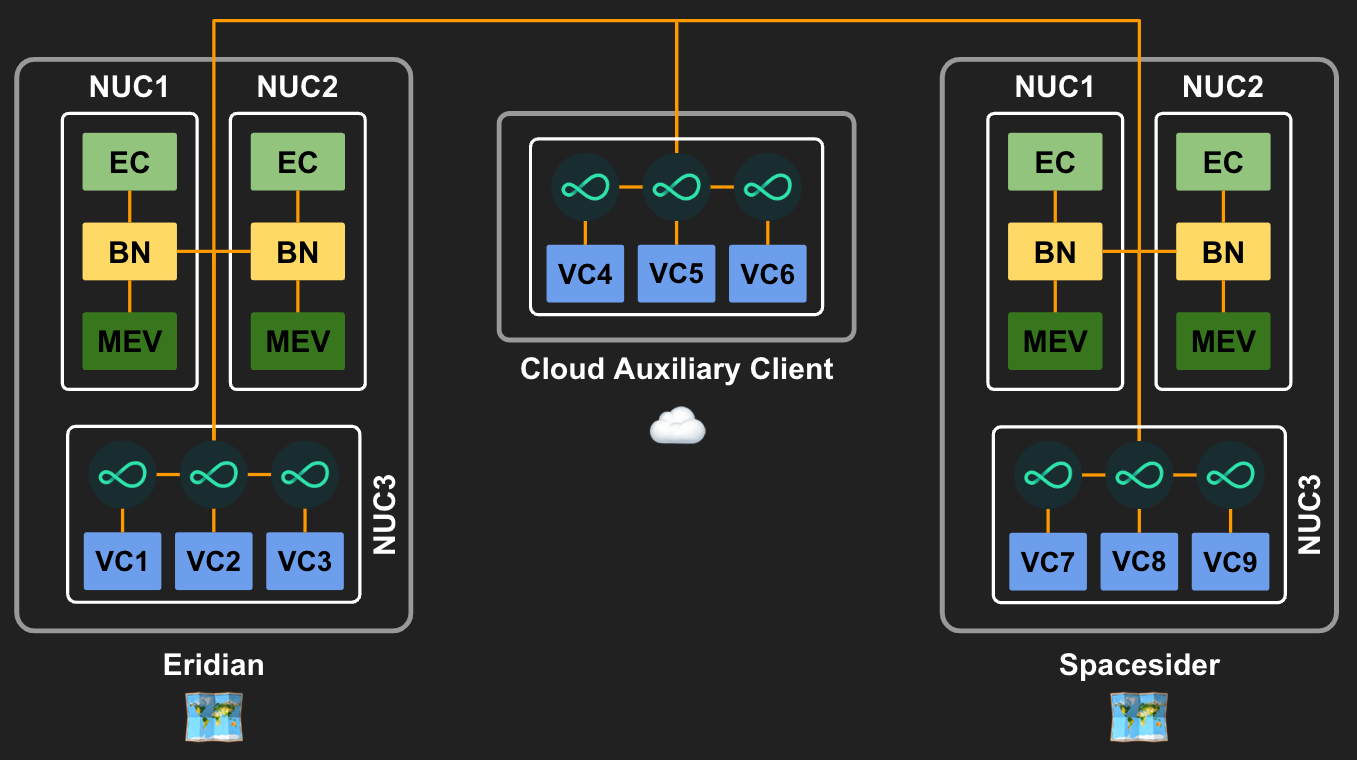
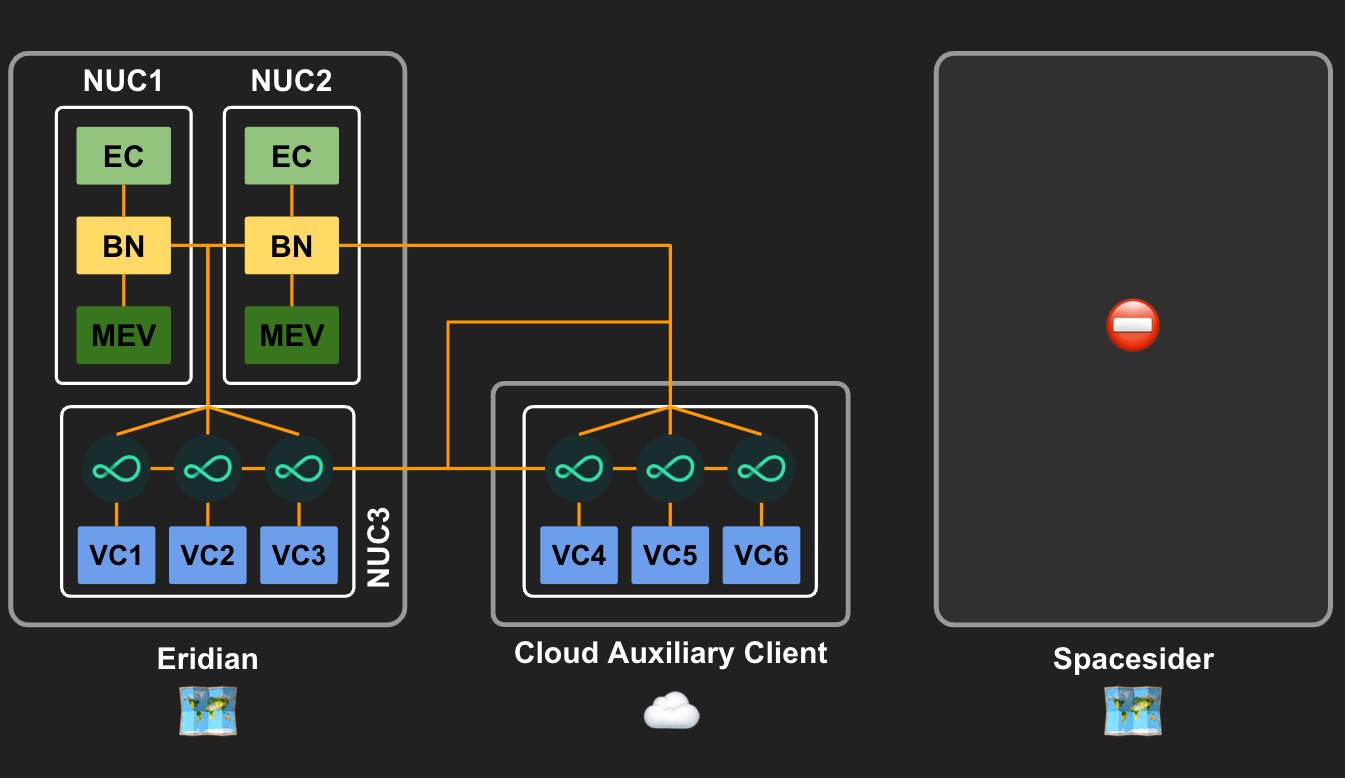
GITBOOK-58: No subject

Changed region(s): [[0.0, 0.0605, 0.6558, 0.9987], [0.687, 0.0605, 0.9993, 0.9987], [0.1561, 0.0, 0.8431, 0.0303]]

diff --git a/the-evolution-of-solo-staking.md b/the-evolution-of-solo-staking.md
@@ -27,40 +27,44 @@ Standard solo staking on Ethereum today. Isolated solo stakers running all their
 
 The DVT solutions described in the subsequent steps are additive to this first step. If at any point DVT stopped working, a participant decided to stop or the Cloud Auxiliary Client provider shut down, this first step will always be the backup.
 
-<figure><img src=".gitbook/assets/image (2).png" alt=""><figcaption></figcaption></figure>
+<figure><img src=".gitbook/assets/image (2) (4).png" alt=""><figcaption></figcaption></figure>
 
 ### Step 2: Redundant Local Hardware
 
 Still isolated systems, but the single points of failure have been reduced, though not eliminated... yet! This also improves client diversity as different EC/BN pairs can be used.
 
-<figure><img src=".gitbook/assets/image (3) (1).png" alt=""><figcaption></figcaption></figure>
+<figure><img src=".gitbook/assets/image (3) (1) (1).png" alt=""><figcaption></figcaption></figure>
 
 ### Step 3: Redundant Remote Beacon Nodes (Prod - Here today📍)
 
 Connect Beacon Nodes to another solo staker to increase redundancy. Further increasing client diversity by running four different EC/BN pairs.
 
-<figure><img src=".gitbook/assets/image (1).png" alt=""><figcaption></figcaption></figure>
+<figure><img src=".gitbook/assets/image (1) (2).png" alt=""><figcaption></figcaption></figure>
 
 ### Step 4: Obol DVT Validators (Dev - Here today📍)
 
 By splitting the keys of any existing validators into 9 keyshares each, a 6/9 Obol DVT cluster can be created. This means, that if any one system goes offline (e.g. due to power cuts, natural disaster, or the Cloud provider deciding that supporting the future of [decentralized finance isn't for them...](https://www.coindesk.com/business/2022/08/26/ethereum-could-get-kicked-off-cloud-host-that-powers-10-of-crypto-network/)) the validators will continue to attest. True DVT!
 
-The Cloud redundancy is useful in this setup because:
+The Cloud Auxiliary Client is useful in this setup because:
 
 1. There are only two stakers so there needs to be a split of keyshares that doesn't allow for a slashing event. If the keys were split 3/6 with each staker holding half the keys, then if the connection between their Charon nodes dropped out, they would still both be able to perform their duties at the same time (a slashable offense!).
 2. It should reduce latency. The idea is that it should be faster for the two home staker nodes to talk to the Cloud provider (if the Cloud node is physically located between the two of them) than it is to talk directly. This should mean better performance for the validators, better inclusion distances, and overall better effectiveness.
 3. It shouldn't cost much. Since the bulk of the cost of a validator is running the EC and BN clients, the actual validator clients are very lightweight. This means the Cloud node can be run on minimal hardware, significantly reducing cost.
 4. It doesn't remove any sovereignty or require any trust assumptions by using the Cloud provider. If the Cloud provider goes out of business or decides to turn off the node, the two remaining nodes can function perfectly fine. Also, as the Cloud provider only has 3/9 keys, it is not a security risk, as 3 keys can't be used for anything if the signature threshold is 6/9.
 
-<figure><img src=".gitbook/assets/image (8) (3).png" alt=""><figcaption></figcaption></figure>
+<figure><img src=".gitbook/assets/image (13).png" alt=""><figcaption></figcaption></figure>
+
+#### Operational Examples&#x20;
+
+<table data-card-size="large" data-column-title-hidden data-view="cards"><thead><tr><th align="center"></th><th align="center"></th><th data-hidden data-card-cover data-type="files"></th></tr></thead><tbody><tr><td align="center"><strong>Normal operation</strong></td><td align="center">Validator Operational ✅</td><td><a href=".gitbook/assets/image (14).png">image (14).png</a></td></tr><tr><td align="center"><strong>Cloud Auxiliary Client Offline</strong></td><td align="center">Validator Operational ✅</td><td><a href=".gitbook/assets/image (15).png">image (15).png</a></td></tr><tr><td align="center"><strong>Eridian</strong> <strong>Offline</strong></td><td align="center">Validator Operational ✅</td><td><a href=".gitbook/assets/image (3).png">image (3).png</a></td></tr><tr><td align="center"><strong>Spacesider</strong> <strong>Offline</strong></td><td align="center">Validator Operational ✅</td><td><a href=".gitbook/assets/image (7).png">image (7).png</a></td></tr><tr><td align="center"><strong>VC Client Failure</strong></td><td align="center">Validator Operational ✅</td><td><a href=".gitbook/assets/image (2).png">image (2).png</a></td></tr><tr><td align="center"><strong>Multi-System Failure</strong></td><td align="center">Validator Operational ✅</td><td><a href=".gitbook/assets/image (6).png">image (6).png</a></td></tr></tbody></table>
 
 ### Step 5: StakeWise V3 Vaults + Obol DVT Validators
 
 Adding StakeWise V3 Vaults as an additional Obol DVT Cluster on existing hardware.
 
-This is where the DVT puzzle pieces begin to form a bigger picture. Once this node configuration has been created, additional staking protocols can easily be added to the same hardware. In this step, we're starting with StakeWise V3 Vaults
+This is where the DVT puzzle pieces begin to form a bigger picture. Once this node configuration has been created, additional staking protocols can easily be added to the same hardware. In this step, we're starting with StakeWise V3 Vaults.
 
-<figure><img src=".gitbook/assets/image (3).png" alt=""><figcaption></figcaption></figure>
+<figure><img src=".gitbook/assets/image (9).png" alt=""><figcaption></figcaption></figure>
 
 ### Step 6: DVT+++
 

diff --git a/dvt-configuration/validator-key-generation.md b/dvt-configuration/validator-key-generation.md
@@ -46,6 +46,6 @@ Once the command has been executed, you may be asked a few follow-up questions s
 
 You will see the CLI tool generate your keys in real-time, and when completed you will be informed of which folder the keys are in. Make sure you keep your mnemonic safe as if you lose your validator keys, you won't be able to recover your ETH!
 
-<figure><img src="../.gitbook/assets/image.png" alt=""><figcaption><p>Success!</p></figcaption></figure>
+<figure><img src="../.gitbook/assets/image (20).png" alt=""><figcaption><p>Success!</p></figcaption></figure>
 
 These newly generated validator keys can now be [split into keyshares](split-validator-keys.md) ready to be used in a DVT validator.

diff --git a/README.md b/README.md
@@ -20,7 +20,7 @@ Join us on an adventure as two dedicated Ethereum solo stakers prepare to run [O
 [the-evolution-of-solo-staking.md](the-evolution-of-solo-staking.md)
 {% endcontent-ref %}
 
-<figure><img src=".gitbook/assets/image (8).png" alt=""><figcaption></figcaption></figure>
+<figure><img src=".gitbook/assets/image (16).png" alt=""><figcaption></figcaption></figure>
 {% endtab %}
 {% endtabs %}
 
